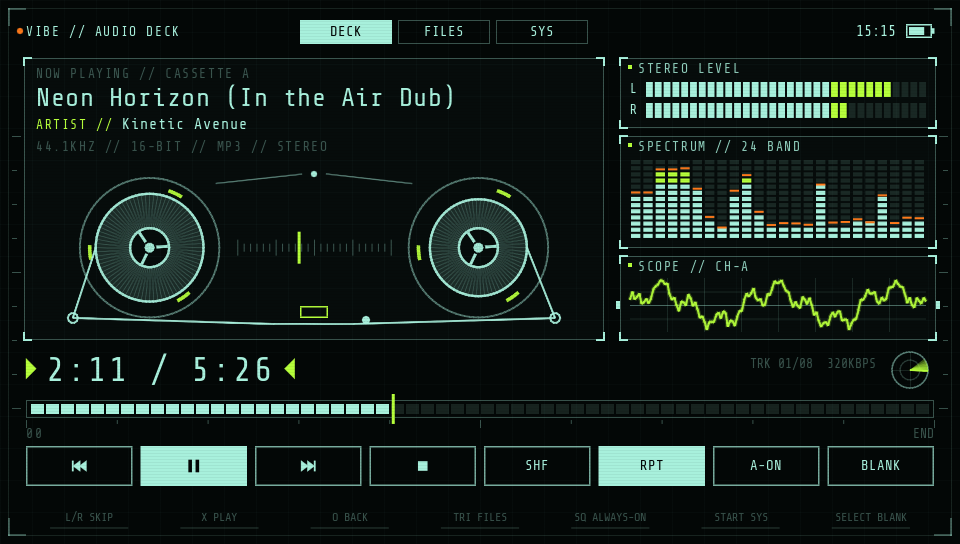
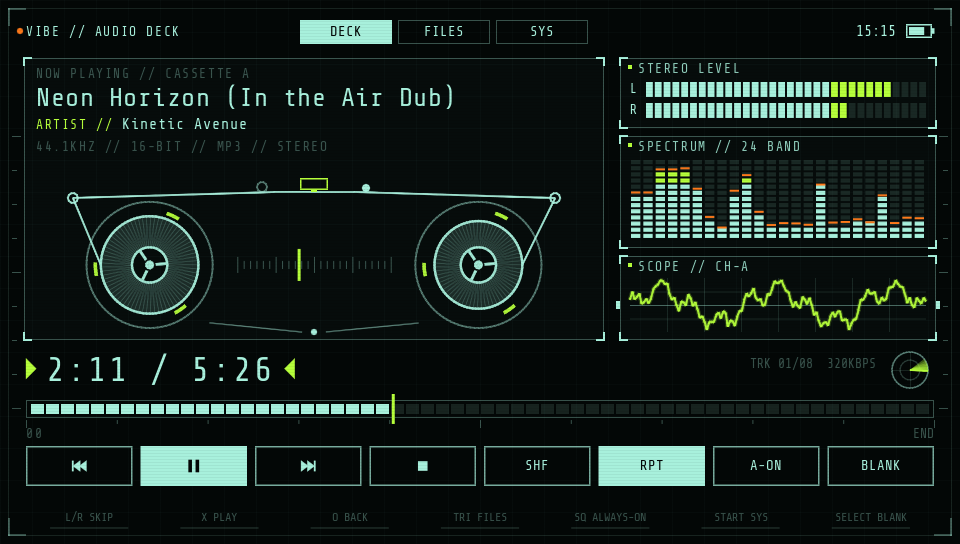
Fix entering folders on Vita; flip retro cassette so the head is on top
Folder listing now uses sceIoDopen/sceIoDread directly (newlib's opendir
stats the path first and failed on some folders, which bounced the browser
back to the device list). On a real failure the browser stays in the
current folder and shows the error code.

Retro skin: cassette drawn upside-down like in a real deck, with the tape
path, guide rollers and play head along the top.

Claude-Session: https://claude.ai/code/session_01YEMYfa1KMXv6kNJBbT4CZE

Changed region(s): [[0.0625, 0.3125, 0.5938, 0.625], [0.2812, 0.4375, 0.375, 0.5]]

diff --git a/src/browser.c b/src/browser.c
@@ -49,12 +49,38 @@ static int cmp(const void *pa, const void *pb) {
     return (unsigned char)*x - (unsigned char)*y;
 }
 
+#ifdef __vita__
+#include <psp2/io/dirent.h>
+/* Talk to sceIo directly: newlib's opendir() resolves the path and stats it first,
+ * which fails on some SD2Vita / exFAT folders that sceIoDopen opens fine. */
+static int dopen_any(const char *path) {
+    int fd = sceIoDopen(path);
+    if (fd >= 0) return fd;
+    /* retry with the other spelling: "ux0:/Music" <-> "ux0:Music" */
+    char alt[600];
+    const char *c = strchr(path, ':');
+    if (c && c[1] == '/') snprintf(alt, sizeof alt, "%.*s%s", (int)(c - path + 1), path, c + 2);
+    else if (c) snprintf(alt, sizeof alt, "%.*s/%s", (int)(c - path + 1), path, c + 1);
+    else return fd;
+    int fd2 = sceIoDopen(alt);
+    return fd2 >= 0 ? fd2 : fd;
+}
+static int dir_exists(const char *p) {
+    int fd = dopen_any(p);
+    if (fd < 0) return 0;
+    sceIoDclose(fd);
+    return 1;
+}
+#else
 static int dir_exists(const char *p) {
     DIR *d = opendir(p);
     if (!d) return 0;
     closedir(d);
     return 1;
 }
+#endif
+
+int browser_last_error;
 
 int browser_open(Browser *b, const char *path) {
     b->n = 0;
@@ -69,24 +95,33 @@ int browser_open(Browser *b, const char *path) {
     }
     char p[520];
     snprintf(p, sizeof p, "%s%s", b->path, b->path[strlen(b->path) - 1] == ':' ? "/" : "");
+#ifdef __vita__
+    int fd = dopen_any(p);
+    if (fd < 0) { browser_last_error = fd; return -1; }
+    SceIoDirent de;
+    for (;;) {
+        memset(&de, 0, sizeof de);
+        if (sceIoDread(fd, &de) <= 0) break;
+        if (de.d_name[0] == '.') continue;
+        int isdir = SCE_S_ISDIR(de.d_stat.st_mode);
+        if (isdir || decoder_supported(de.d_name)) push(b, de.d_name, isdir);
+    }
+    sceIoDclose(fd);
+#else
     DIR *d = opendir(p);
-    if (!d) return -1;
+    if (!d) { browser_last_error = -1; return -1; }
     struct dirent *de;
     while ((de = readdir(d))) {
         if (de->d_name[0] == '.') continue;
-        int isdir;
-#ifdef __vita__
-        isdir = SCE_S_ISDIR(de->d_stat.st_mode);
-#else
         char full[1024];
         struct stat st;
         browser_full(b, -1, full, sizeof full);
         strncat(full, de->d_name, sizeof full - strlen(full) - 1);
-        isdir = stat(full, &st) == 0 && S_ISDIR(st.st_mode);
-#endif
+        int isdir = stat(full, &st) == 0 && S_ISDIR(st.st_mode);
         if (isdir || decoder_supported(de->d_name)) push(b, de->d_name, isdir);
     }
     closedir(d);
+#endif
     qsort(b->e, b->n, sizeof(Entry), cmp);
     return 0;
 }
@@ -100,11 +135,16 @@ void browser_full(Browser *b, int i, char *out, int max) {
     else snprintf(out, max, "%s%s%s", p, sep, b->e[i].name);
 }
 
-void browser_enter(Browser *b, int i) {
-    char p[512];
+int browser_enter(Browser *b, int i) {
+    char p[512], old[512];
     if (!b->path[0]) snprintf(p, sizeof p, "%s", b->e[i].name);
     else browser_full(b, i, p, sizeof p);
-    if (browser_open(b, p) != 0) browser_open(b, "");
+    snprintf(old, sizeof old, "%s", b->path);
+    if (browser_open(b, p) == 0) return 0;
+    int err = browser_last_error;
+    browser_open(b, old); /* stay in the current folder */
+    browser_last_error = err;
+    return -1;
 }
 
 int browser_up(Browser *b) {

diff --git a/src/skin_retro.c b/src/skin_retro.c
@@ -86,30 +86,34 @@ static void reel(float cx, float cy, float r, float pack, float ang) {
     }
 }
 
+/* Cassette drawn upside-down, the way it sits in a real deck: exposed tape,
+ * guide rollers and the play head run along the TOP edge, reels below. */
 static void tape_deck(float x, float y, float w, float h) {
-    float r = fminf(h * 0.42f, w * 0.17f);
-    float cy = y + h * 0.48f;
+    float r = fminf(h * 0.38f, w * 0.17f);
+    float gy = y + 24;                 /* tape line under the head */
+    float cy = y + h - r - 6;          /* reel centres */
     float lx = x + w * 0.2f, rx = x + w * 0.8f;
     float p = ui_progress();
     float pmin = r * 0.34f, pmax = r * 0.9f;
     float pl = pmin + (pmax - pmin) * sqrtf(1 - p), pr = pmin + (pmax - pmin) * sqrtf(p);
     reel(lx, cy, r, pl, g_reel);
     reel(rx, cy, r, pr, g_reel * 1.07f);
-    /* tape path: packs -> guide rollers -> head */
-    float gy = y + h - 10;
-    float g1 = x + w * 0.06f, g2 = x + w * 0.94f;
     uint32_t ln = LN();
-    gfx_line(lx - pl, cy, g1, gy - 6, 1.5f, ln);
-    gfx_line(rx + pr, cy, g2, gy - 6, 1.5f, ln);
-    gfx_line(g1, gy - 6, x + w * 0.5f - 40, gy, 1.5f, ln);
-    gfx_line(x + w * 0.5f + 40, gy, g2, gy - 6, 1.5f, ln);
-    gfx_line(x + w * 0.5f - 40, gy, x + w * 0.5f + 40, gy, 1.5f, ln);
-    gfx_arc(g1, gy - 6, 5, 1.5f, 0, 6.2832f, ln);
-    gfx_arc(g2, gy - 6, 5, 1.5f, 0, 6.2832f, ln);
-    /* head block + capstan */
-    gfx_frame(x + w * 0.5f - 14, gy - 18, 28, 12, 1.5f, ACC());
-    gfx_circle(x + w * 0.5f + 52, gy - 4, 4, ln);
-    /* centre window: azimuth scale + moving index */
+    float g1 = x + w * 0.06f, g2 = x + w * 0.94f, mx = x + w * 0.5f;
+    /* packs -> guide rollers (top corners) -> across the head */
+    gfx_line(lx - pl, cy, g1, gy + 6, 1.5f, ln);
+    gfx_line(rx + pr, cy, g2, gy + 6, 1.5f, ln);
+    gfx_line(g1, gy + 6, mx - 40, gy, 1.5f, ln);
+    gfx_line(mx + 40, gy, g2, gy + 6, 1.5f, ln);
+    gfx_line(mx - 40, gy, mx + 40, gy, 1.5f, ln);
+    gfx_arc(g1, gy + 6, 5, 1.5f, 0, 6.2832f, ln);
+    gfx_arc(g2, gy + 6, 5, 1.5f, 0, 6.2832f, ln);
+    /* play head pressing down onto the tape, pinch roller + capstan beside it */
+    gfx_frame(mx - 14, gy - 14, 28, 12, 1.5f, ACC());
+    gfx_rect(mx - 3, gy - 2, 6, 2, ACC());
+    gfx_circle(mx + 52, gy - 4, 4, ln);
+    gfx_arc(mx - 52, gy - 5, 5, 1.5f, 0, 6.2832f, DIM());
+    /* centre window: counter scale + moving index */
     float sx0 = x + w * 0.36f, sx1 = x + w * 0.64f, sy = cy;
     for (int i = 0; i <= 24; i++) {
         float tx = sx0 + (sx1 - sx0) * i / 24;
@@ -117,9 +121,10 @@ static void tape_deck(float x, float y, float w, float h) {
     }
     float ix = sx0 + (sx1 - sx0) * p;
     gfx_rect(ix - 1.5f, sy - 16, 3, 32, ACC());
-    gfx_line(lx + r * 0.95f, cy - r * 0.92f, x + w * 0.5f - 12, y + 6, 1, DIM());
-    gfx_line(x + w * 0.5f + 12, y + 6, rx - r * 0.95f, cy - r * 0.92f, 1, DIM());
-    gfx_circle(x + w * 0.5f, y + 6, 3, LN());
+    /* shell outline (now below the reels) */
+    gfx_line(lx + r * 0.95f, cy + r * 0.92f, mx - 12, y + h - 2, 1, DIM());
+    gfx_line(mx + 12, y + h - 2, rx - r * 0.95f, cy + r * 0.92f, 1, DIM());
+    gfx_circle(mx, y + h - 2, 3, LN());
 }
 
 /* ---------------- viz panels ---------------- */

diff --git a/src/browser.h b/src/browser.h
@@ -11,7 +11,8 @@ typedef struct {
 
 int browser_open(Browser *b, const char *path);
 int browser_up(Browser *b); /* returns index of the folder we came from, or 0 */
-void browser_enter(Browser *b, int i);
+int browser_enter(Browser *b, int i); /* -1: could not open, stays put */
+extern int browser_last_error;
 void browser_full(Browser *b, int i, char *out, int max);
 /* playable files in this folder; *paths is malloc'd (free with browser_free_list) */
 int browser_playlist(Browser *b, int sel, char ***paths, int *start);

diff --git a/src/app.c b/src/app.c
@@ -90,7 +90,13 @@ static void ensure_visible(void) {
 static void open_row(int i) {
     if (i < 0 || i >= ui.br.n) return;
     if (ui.br.e[i].is_dir) {
-        browser_enter(&ui.br, i);
+        if (browser_enter(&ui.br, i) != 0) {
+            char m[96];
+            snprintf(m, sizeof m, "can't open folder (0x%08X)", (unsigned)browser_last_error);
+            app_toast(m);
+            ui.sel = i;
+            return;
+        }
         ui.sel = 0;
         ui.scroll = 0;
         ui.list_t = ui.t;
